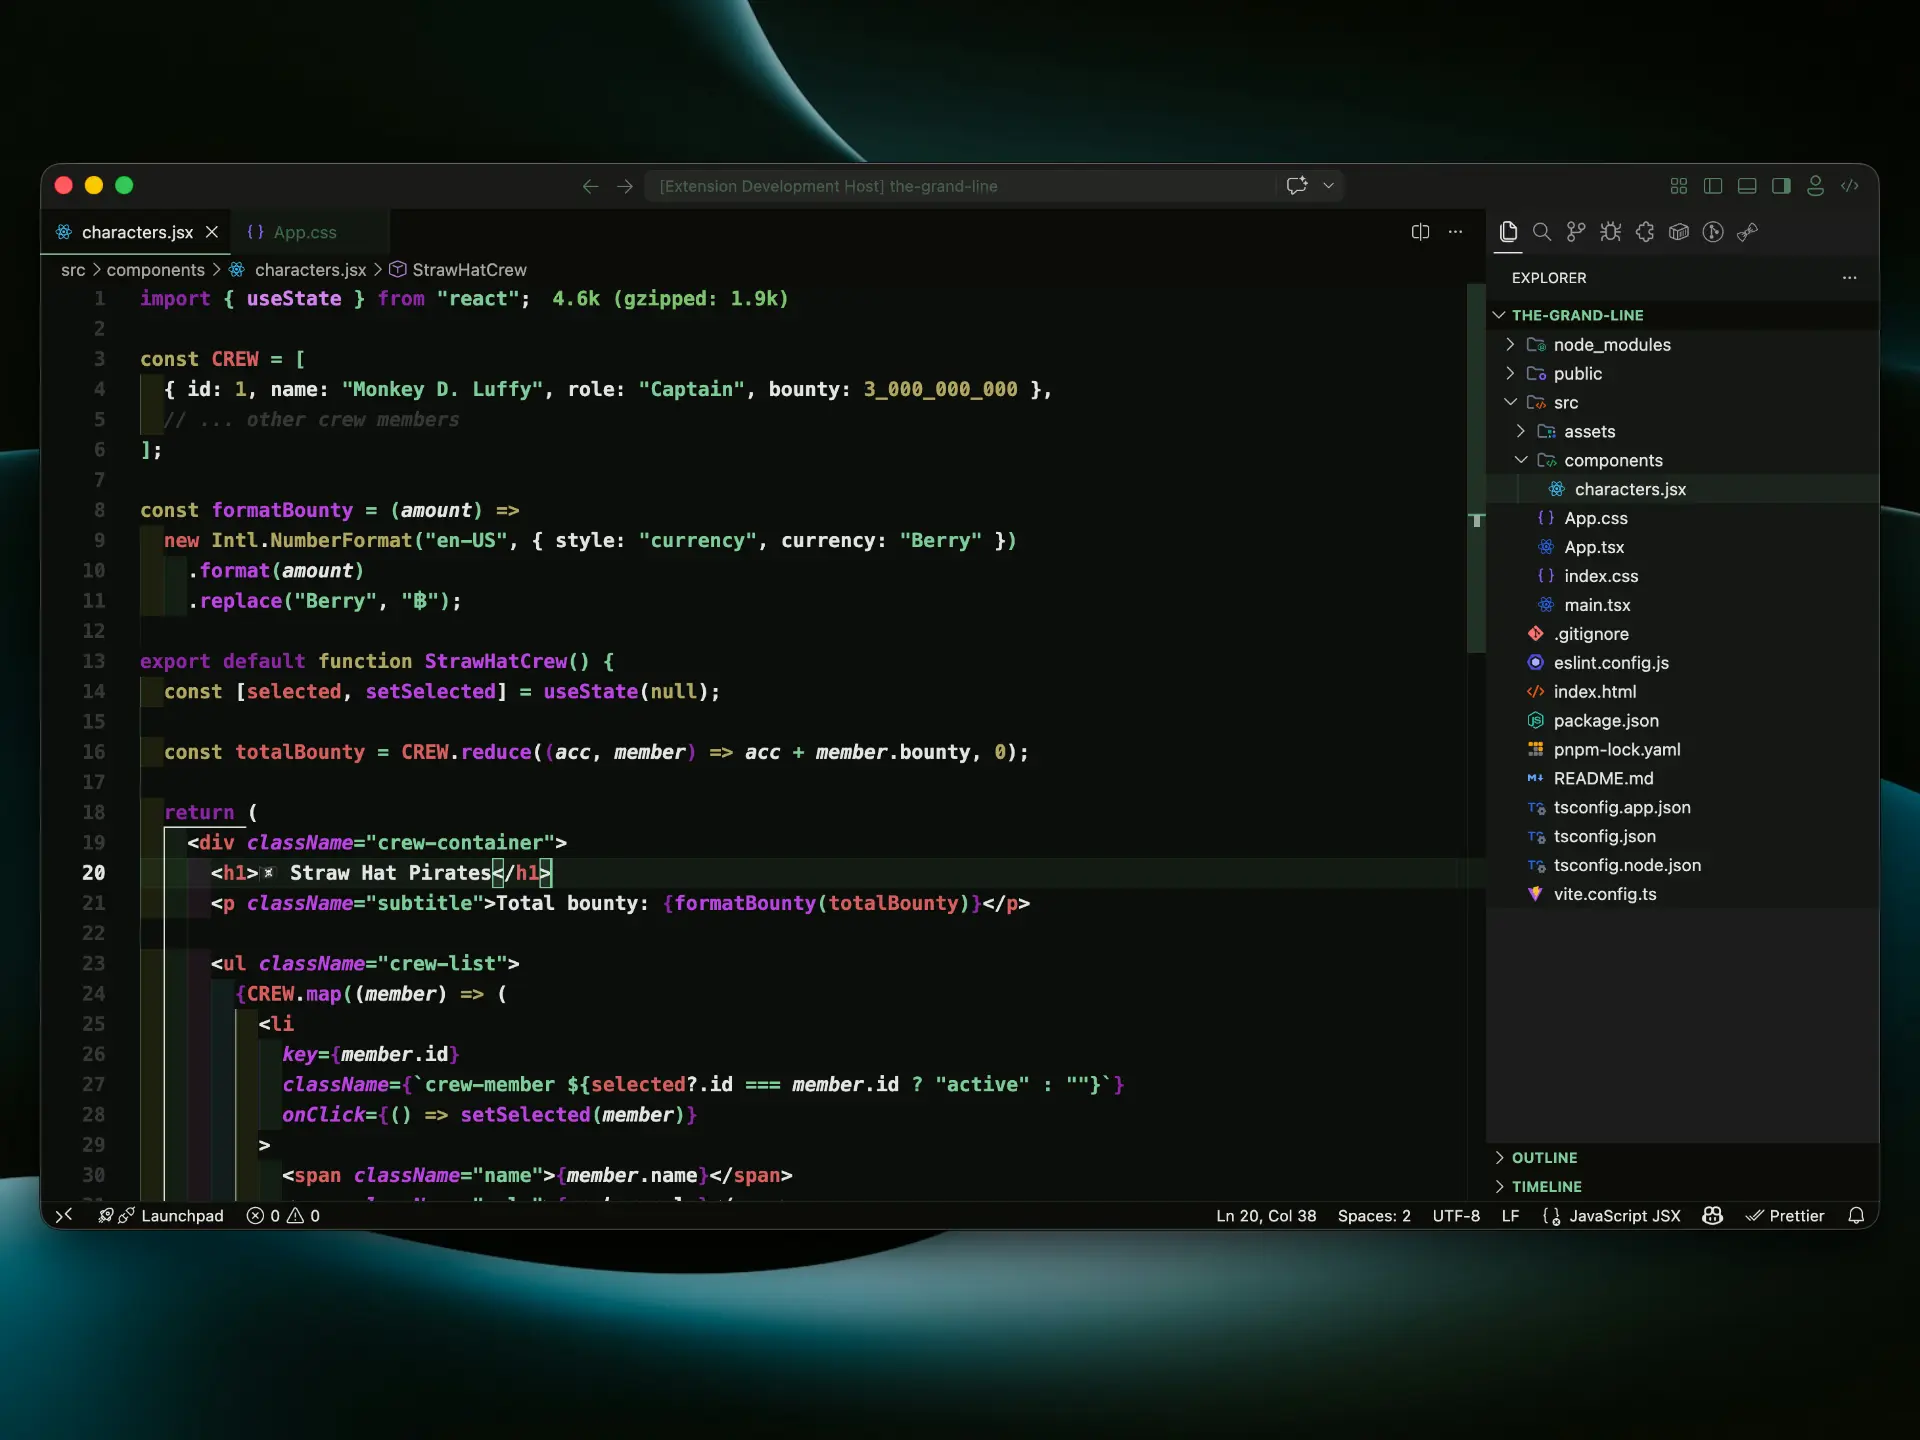
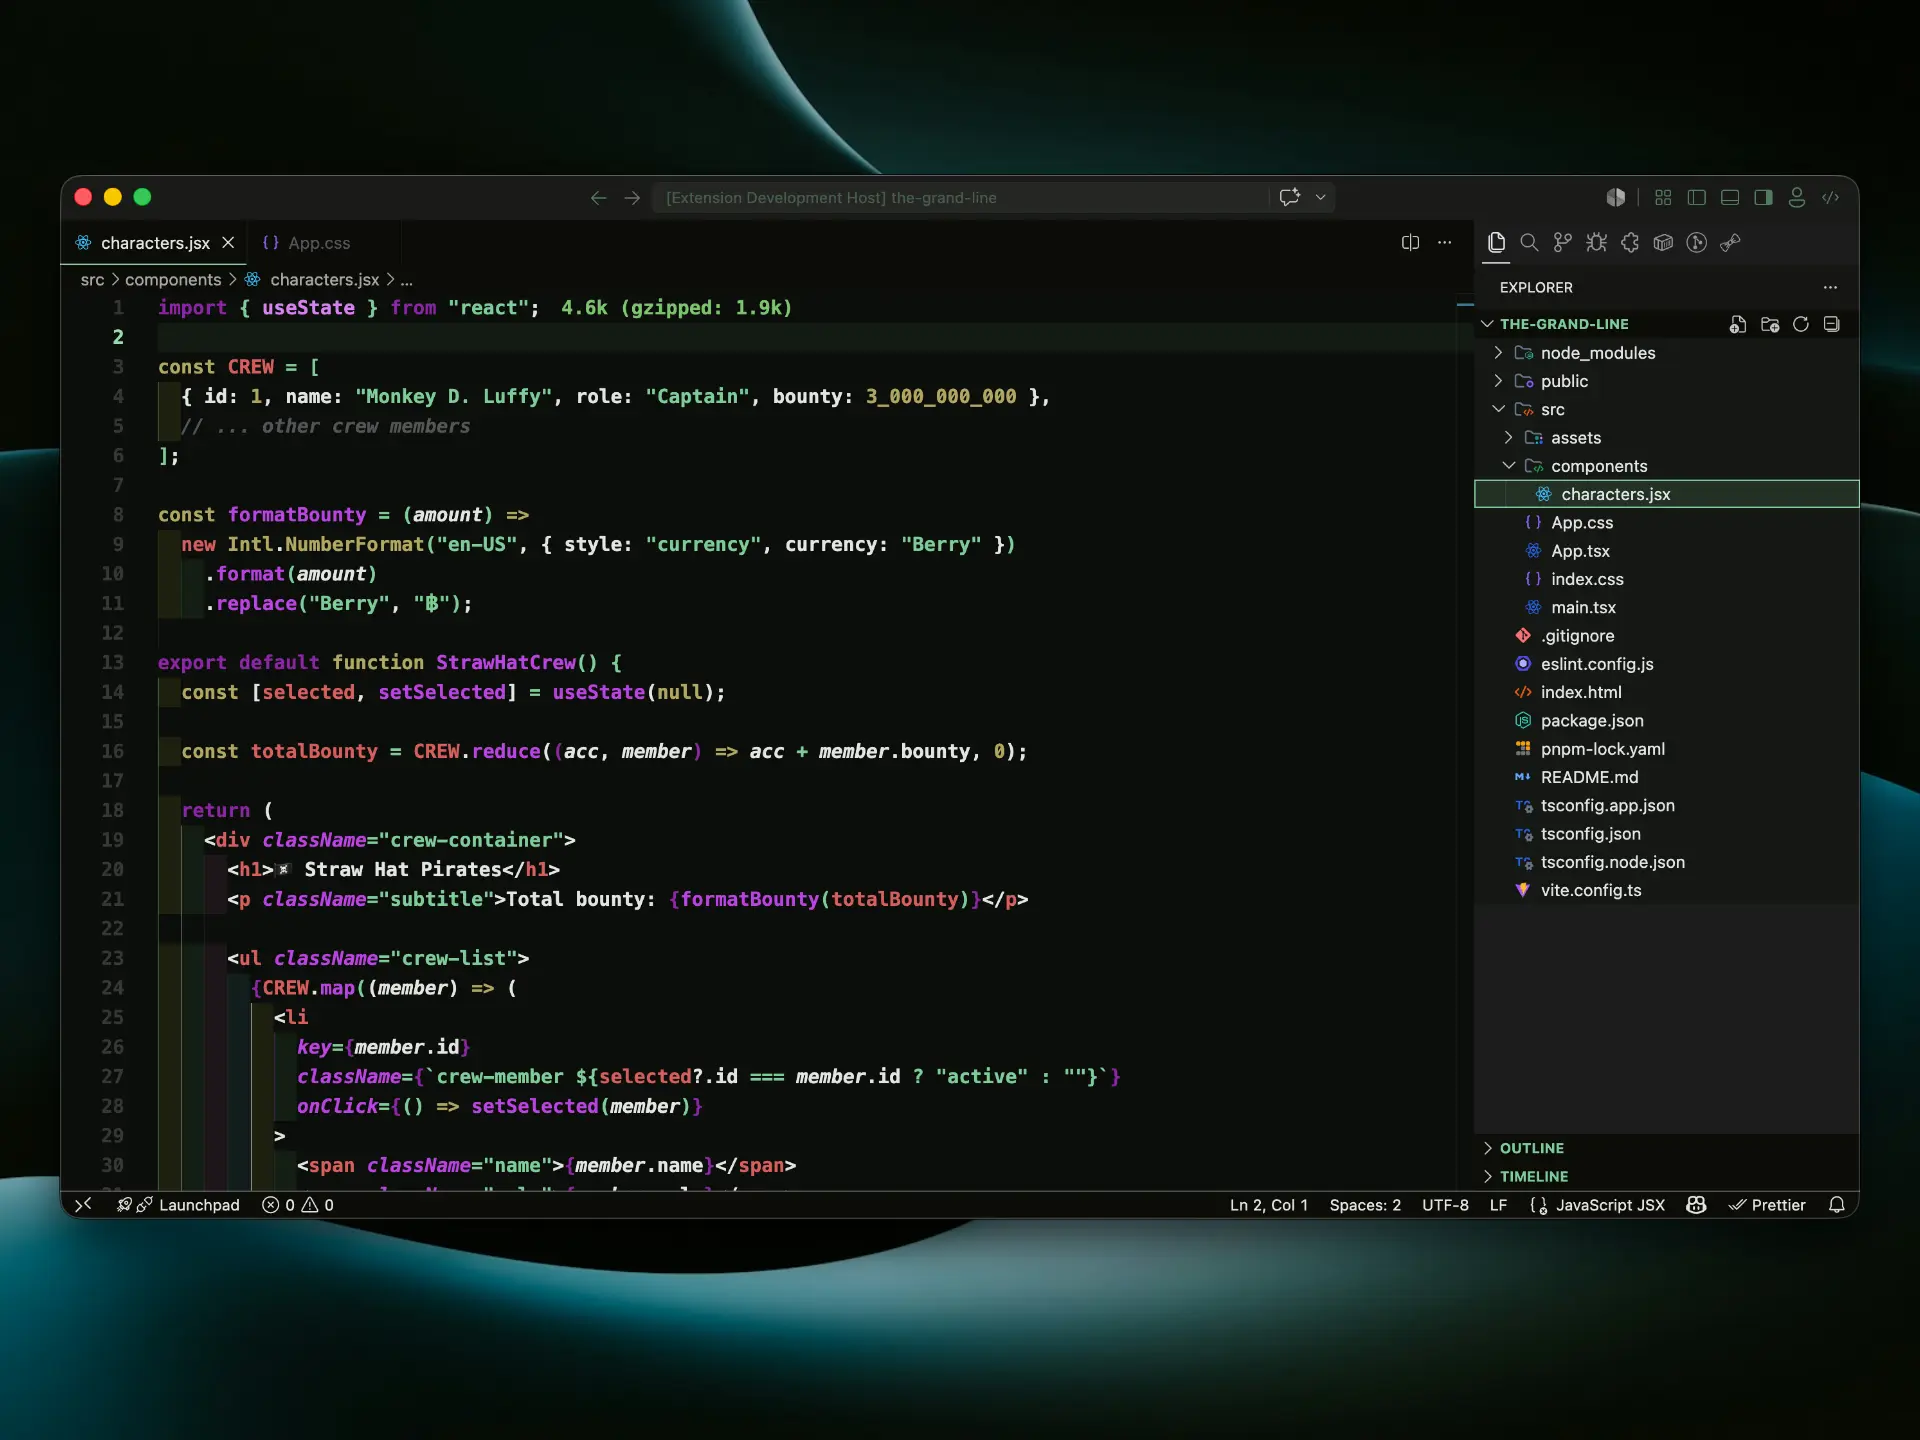
fix: minor UI color adjustments in both themes
- Fix menu background opacity in Zoro theme
- Adjust title bar color in main theme
- Add CHANGELOG entry for 0.1.2

diff --git a/README.md b/README.md
@@ -4,9 +4,7 @@
 
 *I'm going to be The King of the Pirates!*
 
-Dark VS Code themes inspired by the world of One Piece. 
-
-Built for long coding sessions on the Grand Line.
+Dark VS Code themes inspired by the world of One Piece. Built for long coding sessions on the Grand Line.
 
 ---
 

diff --git a/CHANGELOG.md b/CHANGELOG.md
@@ -2,6 +2,12 @@
 
 All notable changes to the "The One Piece Theme" extension will be documented in this file.
 
+## [0.1.2] - 2026-05-13
+
+### Fixed
+- Adjust menu background opacity in Zoro theme
+- Adjust title bar color in main theme
+
 ## [0.1.1] - 2026-05-12
 
 ### Fixed
